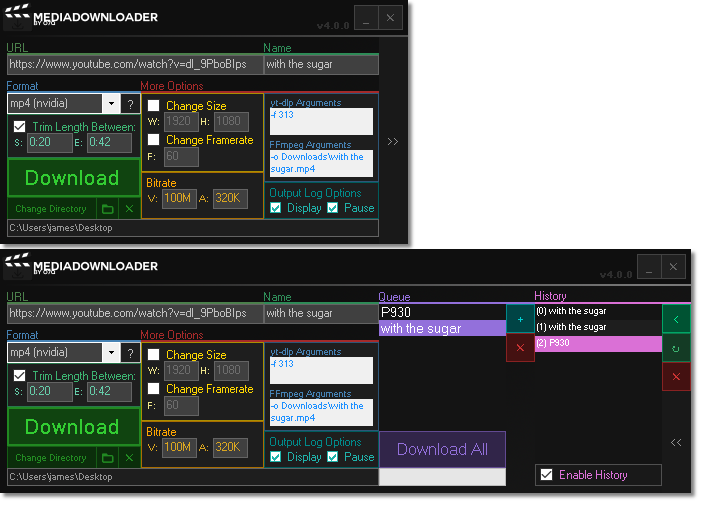
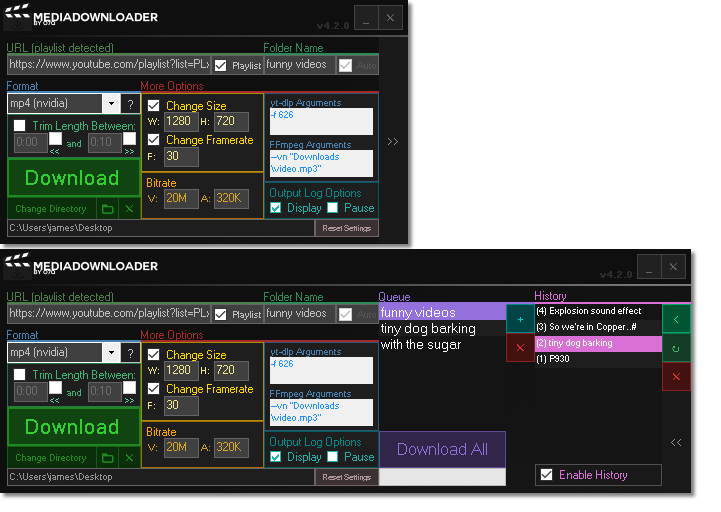
Update readme and website

diff --git a/assets/pages/index/files/scripts.js b/assets/pages/index/files/scripts.js
@@ -1,5 +1,5 @@
 function BodyInit()
 {
-    var VERSION = "v4.1.1.0";
+    var VERSION = "v4.2.0.0";
 	document.getElementById("dlID").innerHTML = "Download " + VERSION;
 }

diff --git a/README.md b/README.md
@@ -47,6 +47,7 @@ FFmpeg: https://ffmpeg.org
         -    **Format Dropdown** Specify the format for downloaded media to be converted to
         - **Format Info Button** Displays all media types found on the specified URL's web server
         - **Trim Length Inputs** Trims the download to a specific length with a start and end timestamp. Examples of valid times would be: `0:00 - 0:10` | `1:25 - 2:30` | `2:30:40 - 3:05:15`
+            - **Start and end trimming** You can specify to trim from the start time of the video or until the end time of the video with the checkboxes next to the textboxes
 
 <details>
 <summary><b>Extra Download Options</b></summary>
@@ -81,7 +82,7 @@ FFmpeg: https://ffmpeg.org
     - **Load Button** Loads the selected item and its settings
     - **Refresh Button** Refreshes the history list
     - **Remove Button** Removes the selected history item
-    - **Enable History CheckBox** Enable/Disable saving of history
+    - **Enable History Checkbox** Enable/Disable saving of history
 
 </details>
 
